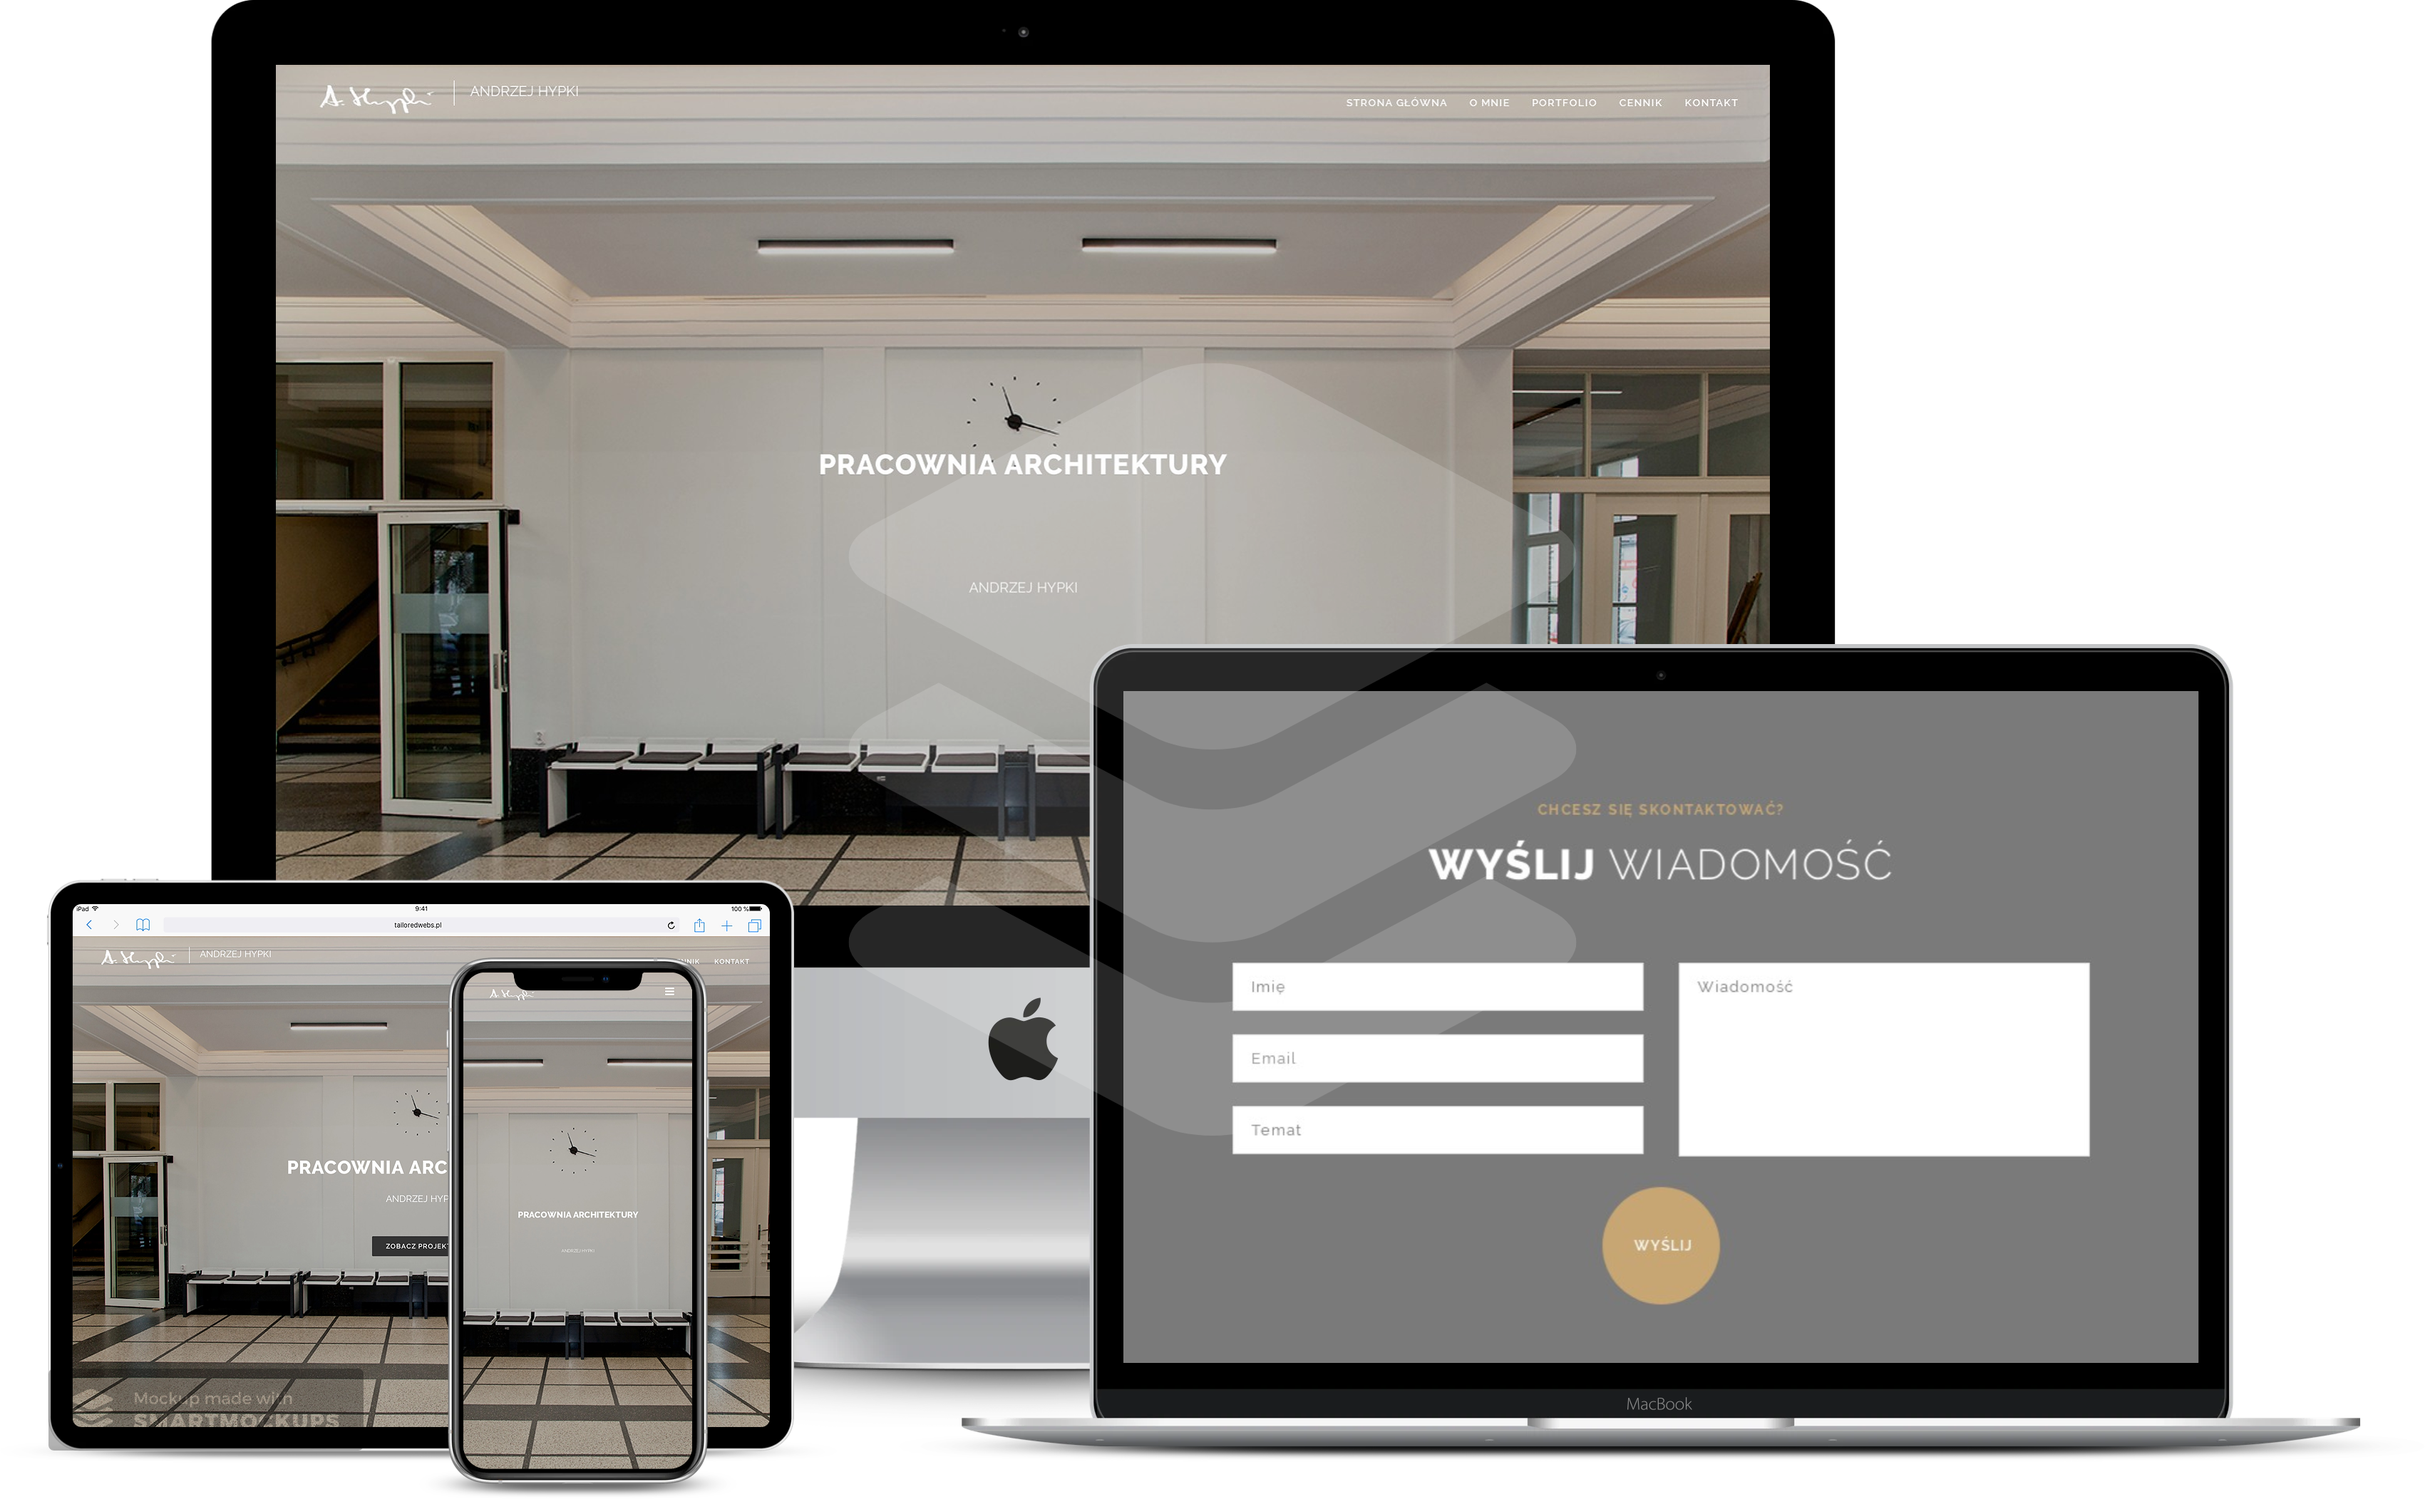
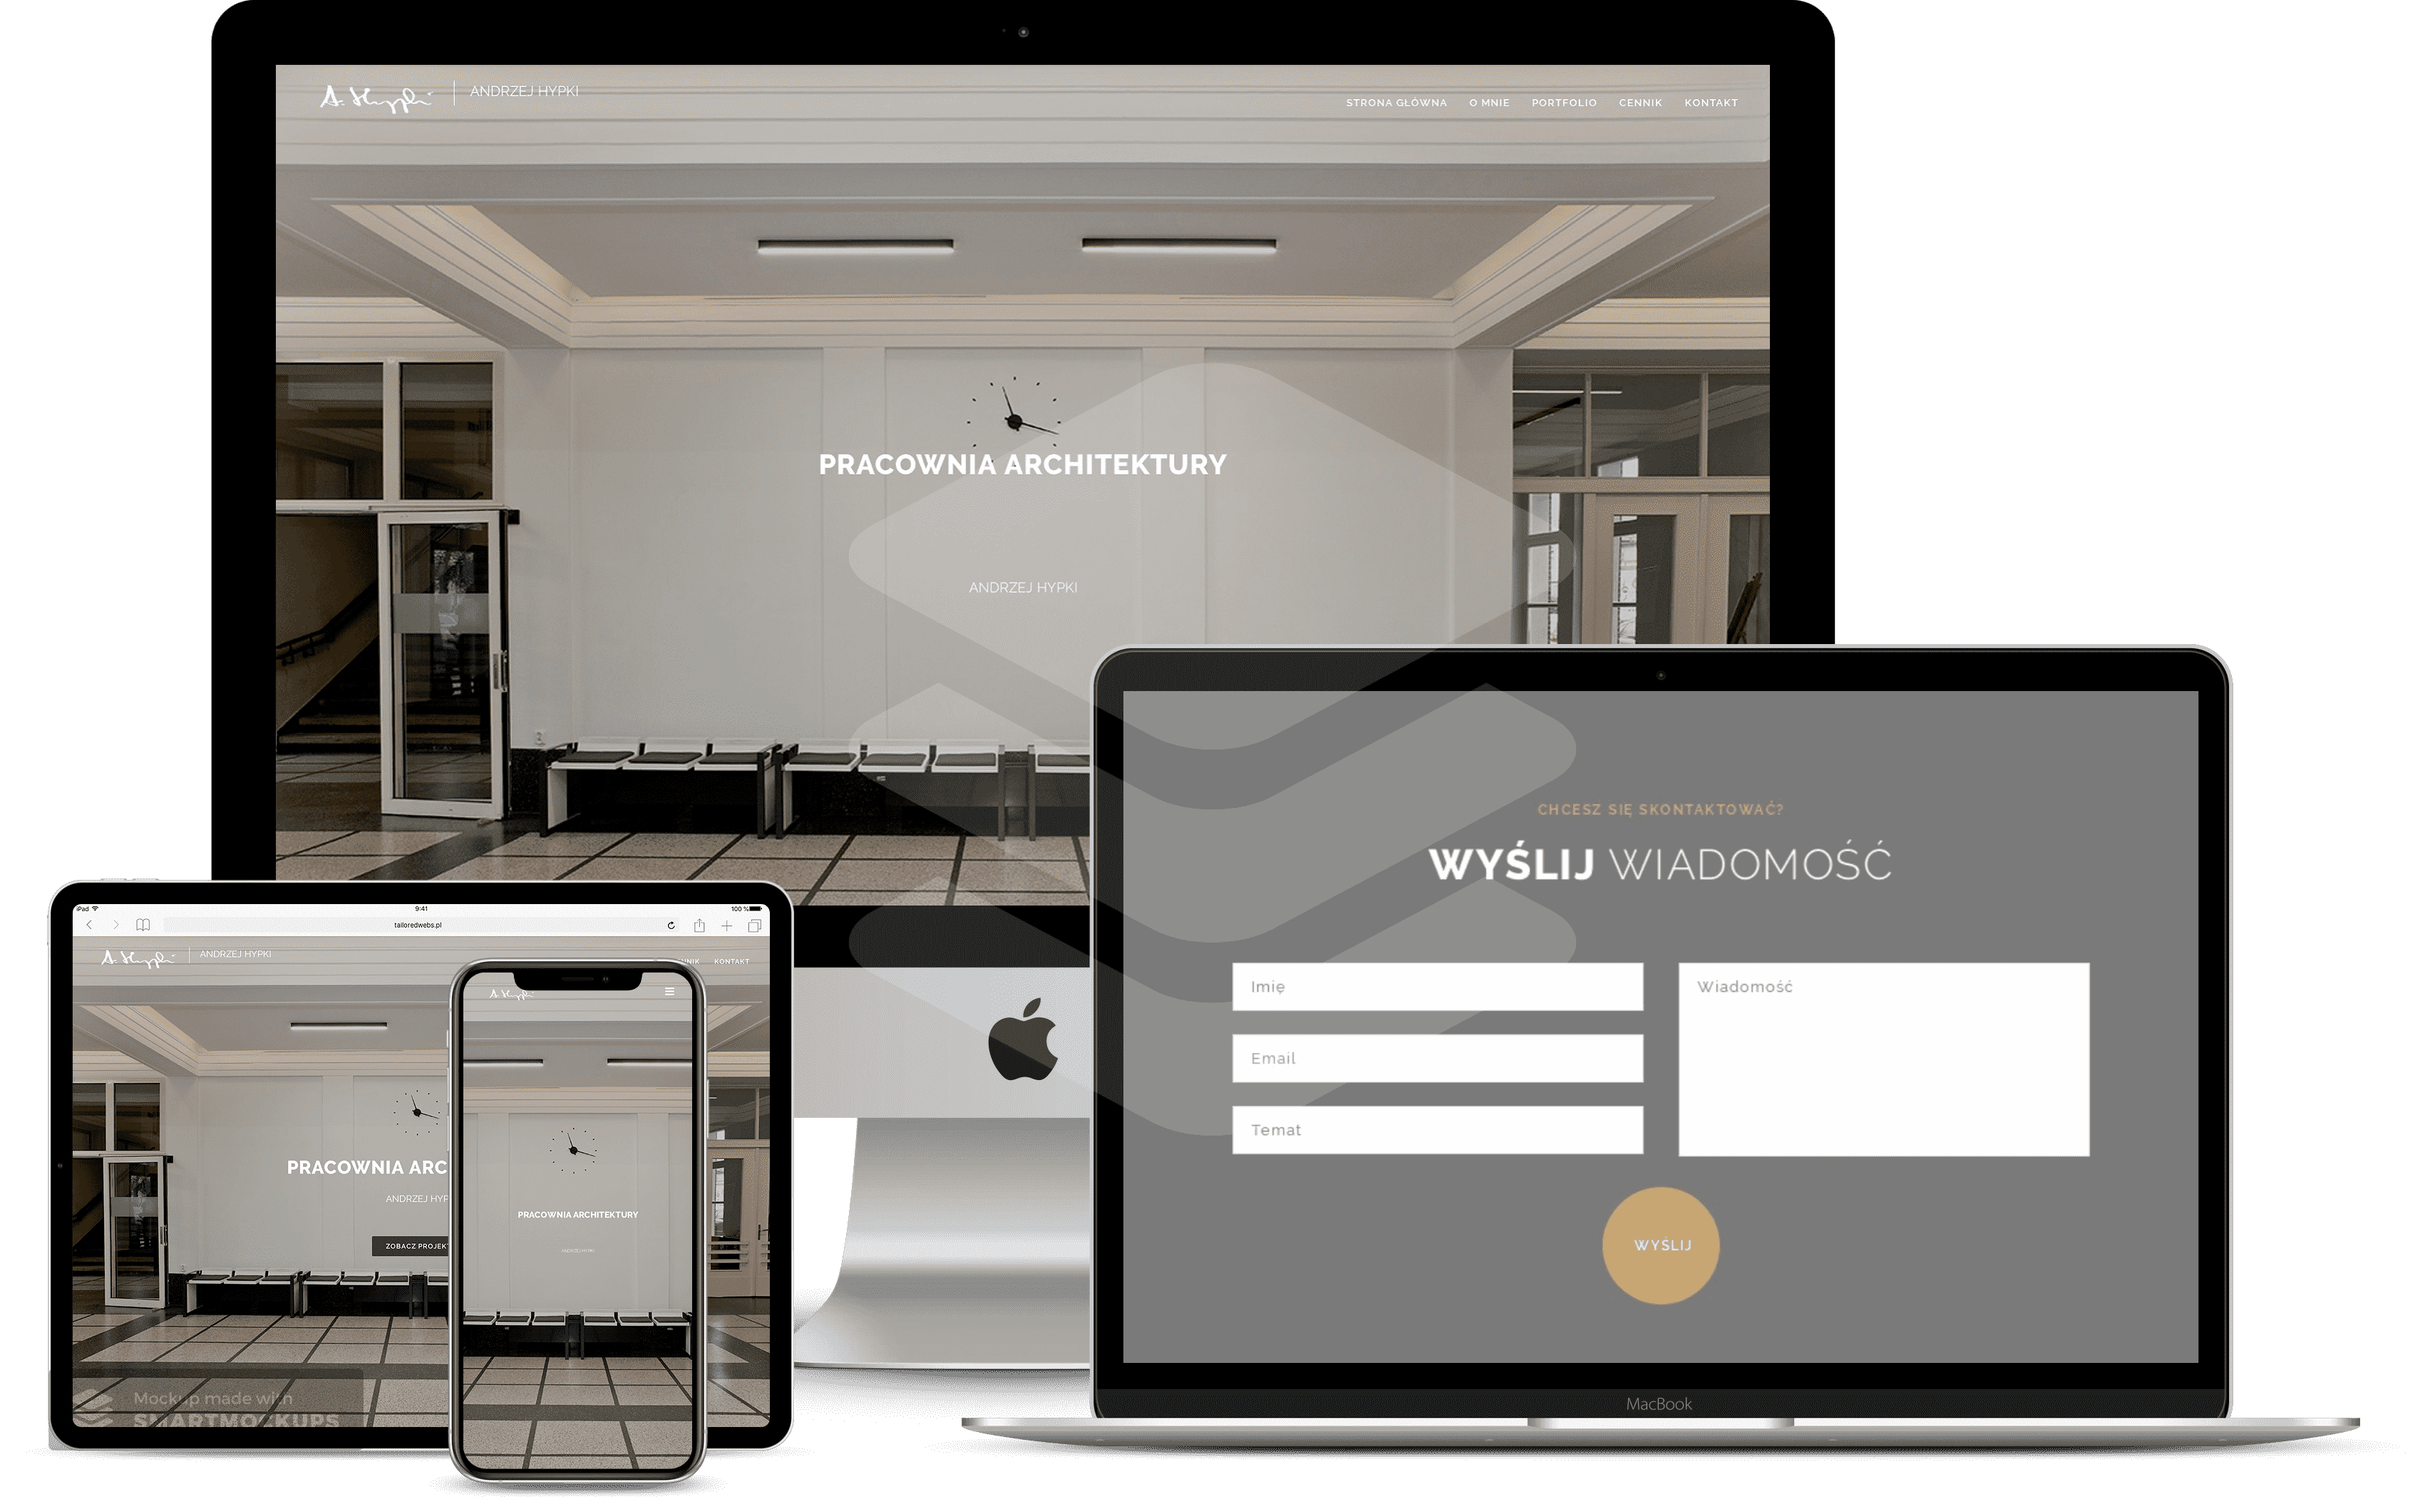
some photos resized

diff --git a/index.html b/index.html
@@ -187,7 +187,7 @@
           </div>
           <div class="col-sm-10 col-md-6 order-1 order-md-2 ptb-15 plr-20">
             <div class="img">
-              <img src="img/mobile2.png" alt="Projektowanie stron internetowych">
+              <img src="img/mobile.jpg" alt="Projektowanie stron internetowych">
             </div>
           </div>
         </div>
@@ -519,7 +519,7 @@
           </div>
           <div class="process-box col-lg-2 col-md-4 col-sm-6 col-12 wow fadeIn" data-wow-delay="0.8s" data-wow-duration="2s" style="visibility: visible; animation-duration: 2s; animation-delay: 0.8s; animation-name: fadeIn;">
               <div class="tipped tipper-attached" data-title="Step4 - Development" data-tipper-options="{&quot;direction&quot;:&quot;top&quot;}">
-                  <div class="pb-15" style="color: red"><img src="img/develop.png" alt=""></div>
+                  <div class="pb-15"><img src="img/develop.png" alt=""></div>
                   <h6 class="font--color--light">Programujemy</h6>
               </div>
           </div>
@@ -549,35 +549,35 @@
         <h4 lang="pl" class="font--color--dark--grey">Narzędzia, których używamy</h4>
         <div class="spacer-60"></div>
         <div class="row justify-content-center">
-          <div class="col-2 d-flex flex-column justify-content-center align-items-center">
-            <div class="mb-30">
-              <div class="page-icon-top"> <i class="font--color--dark--grey fab fa-html5"></i></div>
-              <h5 class="font--color--dark--grey">HTML5</h5>
+          <div class="col-3 d-flex flex-column justify-content-center align-items-end">
+            <div class="mb-30 d-flex align-items-center left-icons">
+              <div class="page-icon-top order-md-2"> <i class="font--color--dark--grey fab fa-html5"></i></div>
+              <h5 class="font--color--dark--grey order-md-1">HTML5</h5>
             </div>
-            <div class="mb-30">
-              <div class="page-icon-top"><i class="font--color--dark--grey fab fa-css3-alt"></i></div>
-              <h5 class="font--color--dark--grey">CSS3</h5>
+            <div class="mb-30 d-flex align-items-center left-icons">
+              <div class="page-icon-top order-md-2"><i class="font--color--dark--grey fab fa-css3-alt"></i></div>
+              <h5 class="font--color--dark--grey order-md-1">CSS3</h5>
             </div>
-            <div class="mb-30">
-              <div class="page-icon-top"><i class="font--color--dark--grey fab fa-react"></i></i></div>
-              <h5 class="font--color--dark--grey">React</h5>
+            <div class="mb-30 d-flex align-items-center left-icons">
+              <div class="page-icon-top order-md-2"><i class="font--color--dark--grey fab fa-react"></i></i></div>
+              <h5 class="font--color--dark--grey order-md-1">React</h5>
             </div>
           </div>
-          <div class="col-7">
+          <div class="col-5">
               <div class="item-box-mockup">
-                <img class="item-container-mockup" src="img/portfolio/mitra-mockup.png" alt="1" />
+                <img class="item-container-mockup" src="img/portfolio/hypki-resized.png" alt="1" />
               </div>
           </div>
-          <div class="col-2 d-flex flex-column justify-content-center align-items-center">
-              <div class="mb-30">
+          <div class="col-3 d-flex flex-column justify-content-center align-items-start">
+              <div class="mb-30 d-flex align-items-center">
                 <div class="page-icon-top"><i class="font--color--dark--grey fab fa-bootstrap"></i></div>
                 <h5 class="font--color--dark--grey">Bootstrap</h5>
               </div>
-              <div class="mb-30">
+              <div class="mb-30 d-flex align-items-center">
                 <div class="page-icon-top"><i class="font--color--dark--grey fab fa-wordpress"></i></div>
                 <h5 class="font--color--dark--grey">Wordpress</h5>
               </div>
-              <div class="mb-30">
+              <div class="mb-30 d-flex align-items-center">
                 <div class="page-icon-top"><i class="font--color--dark--grey fab fa-php"></i></div>
                 <h5 class="font--color--dark--grey">PHP</h5>
               </div>

diff --git a/css/style.css b/css/style.css
@@ -2616,8 +2616,16 @@ form label.error {
 .page-icon-top {
     font-size: 70px;
     line-height: 70px;
-    padding-bottom: 20px;
-    width: 100%;
+    width: 100px;
+    height: 100px;
+    padding: 20px;
+    /* padding-bottom: 20px; */
+    border: 1px solid #f2f2f2;
+    margin: 10px;
+    /* width: 100%; */
+    display: flex;
+    align-items: center;
+    justify-content: center;
     color: #323232;
     transition: all 1s ease-in-out;
 }
@@ -4661,13 +4669,7 @@ h1, h1.h1{
 
 /* ABOUT US Start */
 #about{
-<<<<<<< HEAD
-    background-color: #f9f9f9;
-    /* background: url("../img/full/aboutUsphoto1.jpg") no-repeat center center;
-    background-size: cover; */
-=======
     /* background-color: #f9f9f9; */
->>>>>>> master
 }
 
 .desc h3::after{
@@ -4691,13 +4693,13 @@ h1, h1.h1{
 
 /* Process start */
 #process{
-    background-color: #034093;
+    background-color: #215D86
 }
 /* WORK end */
 
 /* OFFER start */
 #offer{
-    background-color: #034093;
+    background-color: #215D86;
 }
 
 .container-full .container:first-child {
@@ -4761,6 +4763,26 @@ h1, h1.h1{
     display: none;
 }
 
+#contact-info{
+    position: relative;
+    height: 100%;
+    
+}
+
+#contact-info::after {
+    content: "";
+    background: url("../img/we.jpg") no-repeat center center;
+    background-size: cover;
+    background-attachment: fixed;
+    opacity: 0.3;
+    top: 0;
+    left: 0;
+    bottom: 0;
+    right: 0;
+    position: absolute;
+    z-index: -1;   
+  }
+
 .showPL{
    display: block;
 }
@@ -4769,13 +4791,6 @@ a#flag-pl{
     color: red;
 }
 
-<<<<<<< HEAD
-a#flag-en{
-    color: rgba(255,255,255,1);
-}
-
-/* Mobile NAV end */
-=======
 /* Mobile NAV end */
 
 section h3 {
@@ -4862,8 +4877,7 @@ line-height: 44px;
     max-width: 960px;
     width: 100%;
     margin: auto;
-    background: #39459b;
-    /* border: 10px solid #0d99d7; */
+    background: #215D86;
     padding: 77px 99px 87px;
     box-shadow: 0px 0px 10px 0px rgba(0, 0, 0, 0.2);
     -webkit-box-shadow: 0px 0px 10px 0px rgba(0, 0, 0, 0.2);
@@ -5008,9 +5022,8 @@ line-height: 44px;
       -o-box-shadow: none; }
 
     .form-wrapper {
-      background: #39459b;
-      border: 10px solid #0d99d7; } }
+      background: #167396;
+     } }
 
 
   /*# sourceMappingURL=style.css.map */
->>>>>>> master
